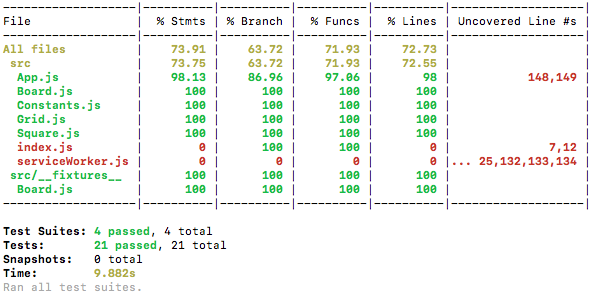
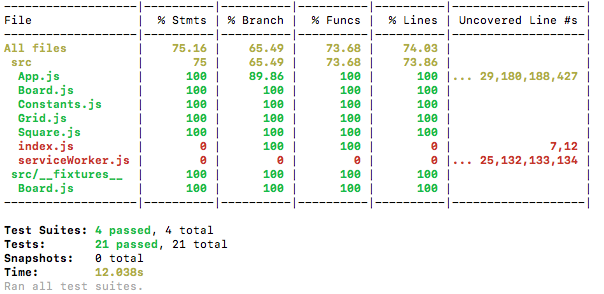
revised test case for app component to increase test coverage

Changed region(s): [[0.0, 0.0, 0.995, 0.7041], [0.0, 0.7653, 0.392, 1.0]]

diff --git a/src/App.test.js b/src/App.test.js
@@ -24,7 +24,7 @@ jest.mock('./Constants.js', () => {
       TIMEOUT: 1 << 4
     },
   
-    TIME_LIMIT: 500 // shorten timeout for testing
+    TIME_LIMIT: 1500 // shorten timeout for testing
   };
 });
 
